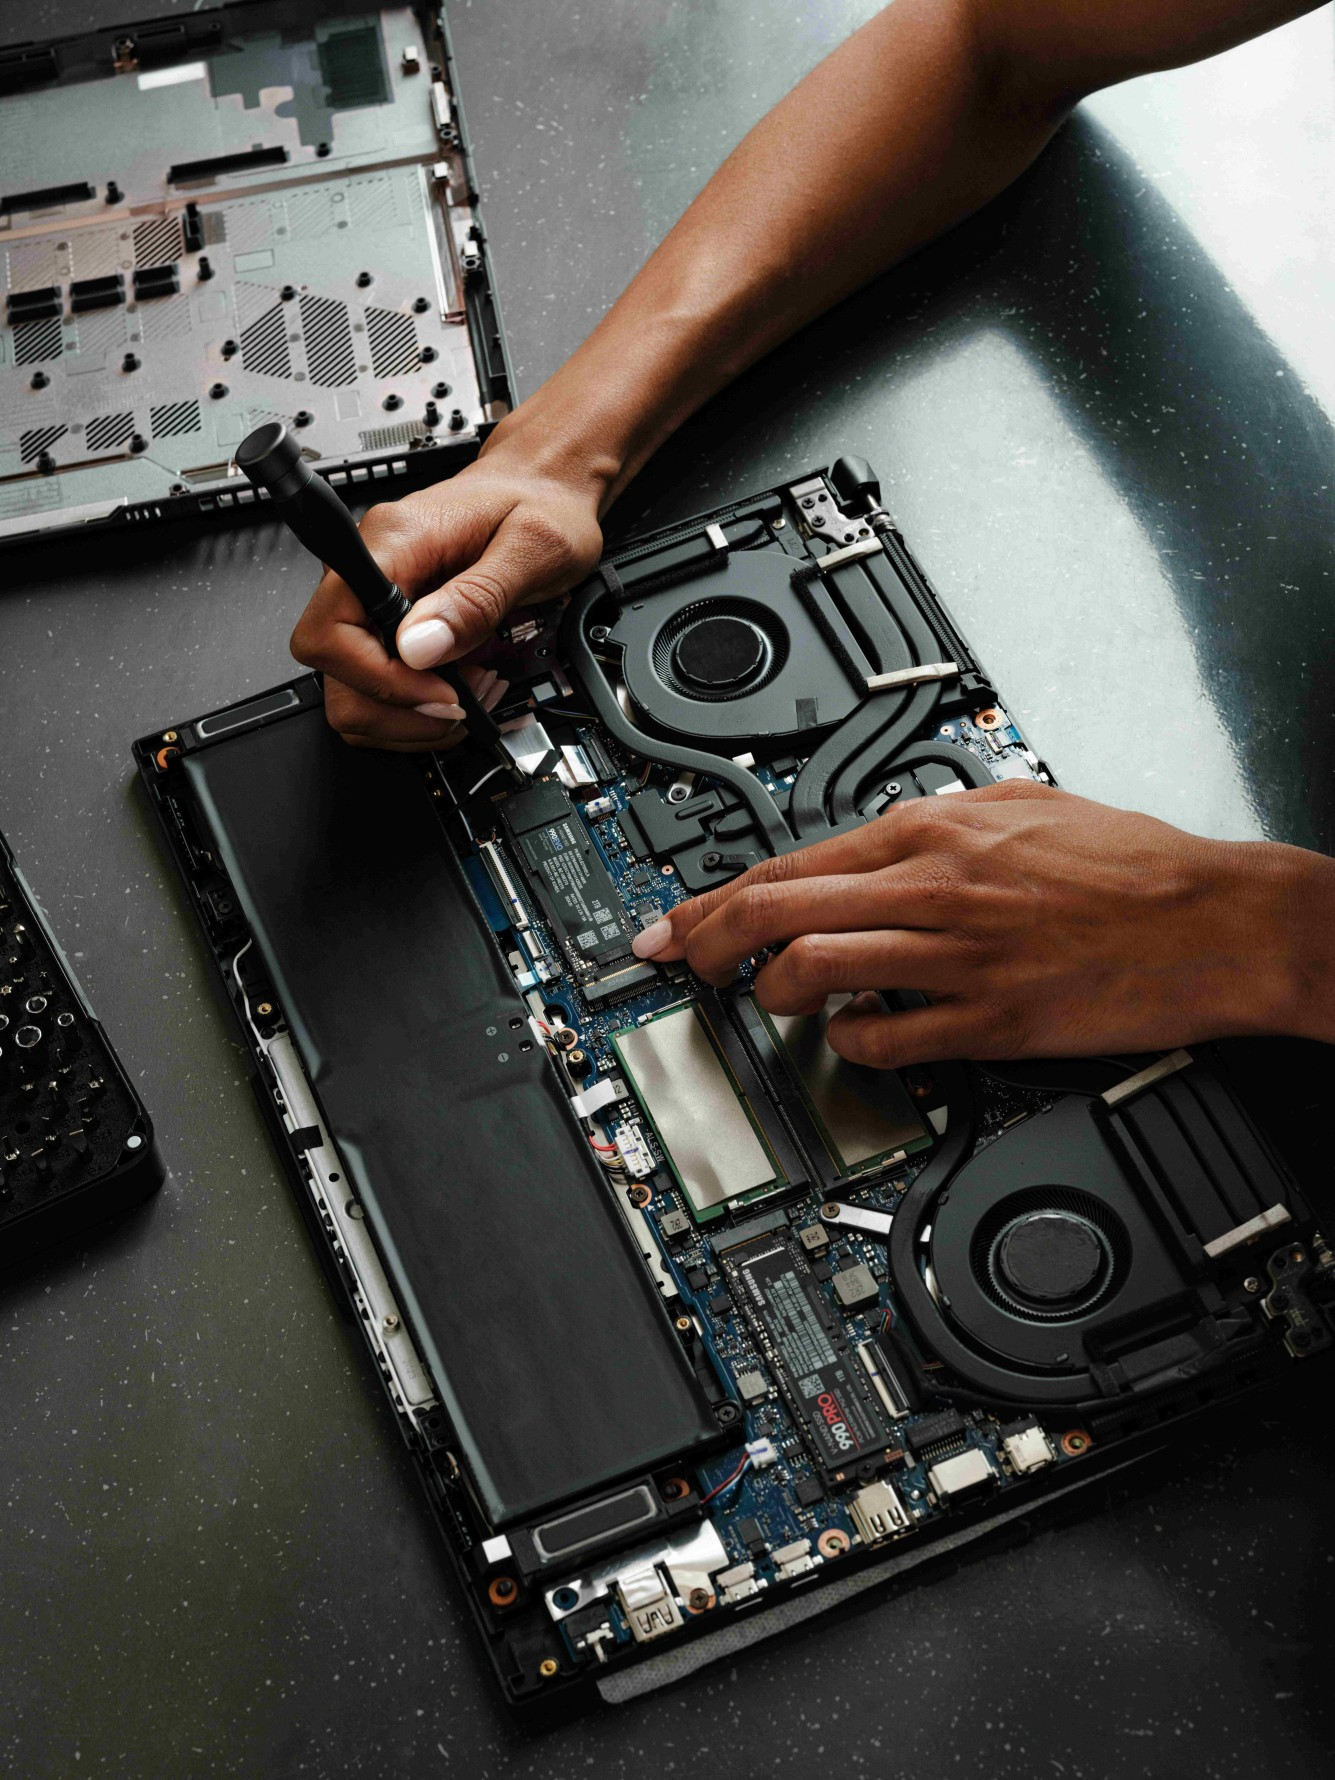
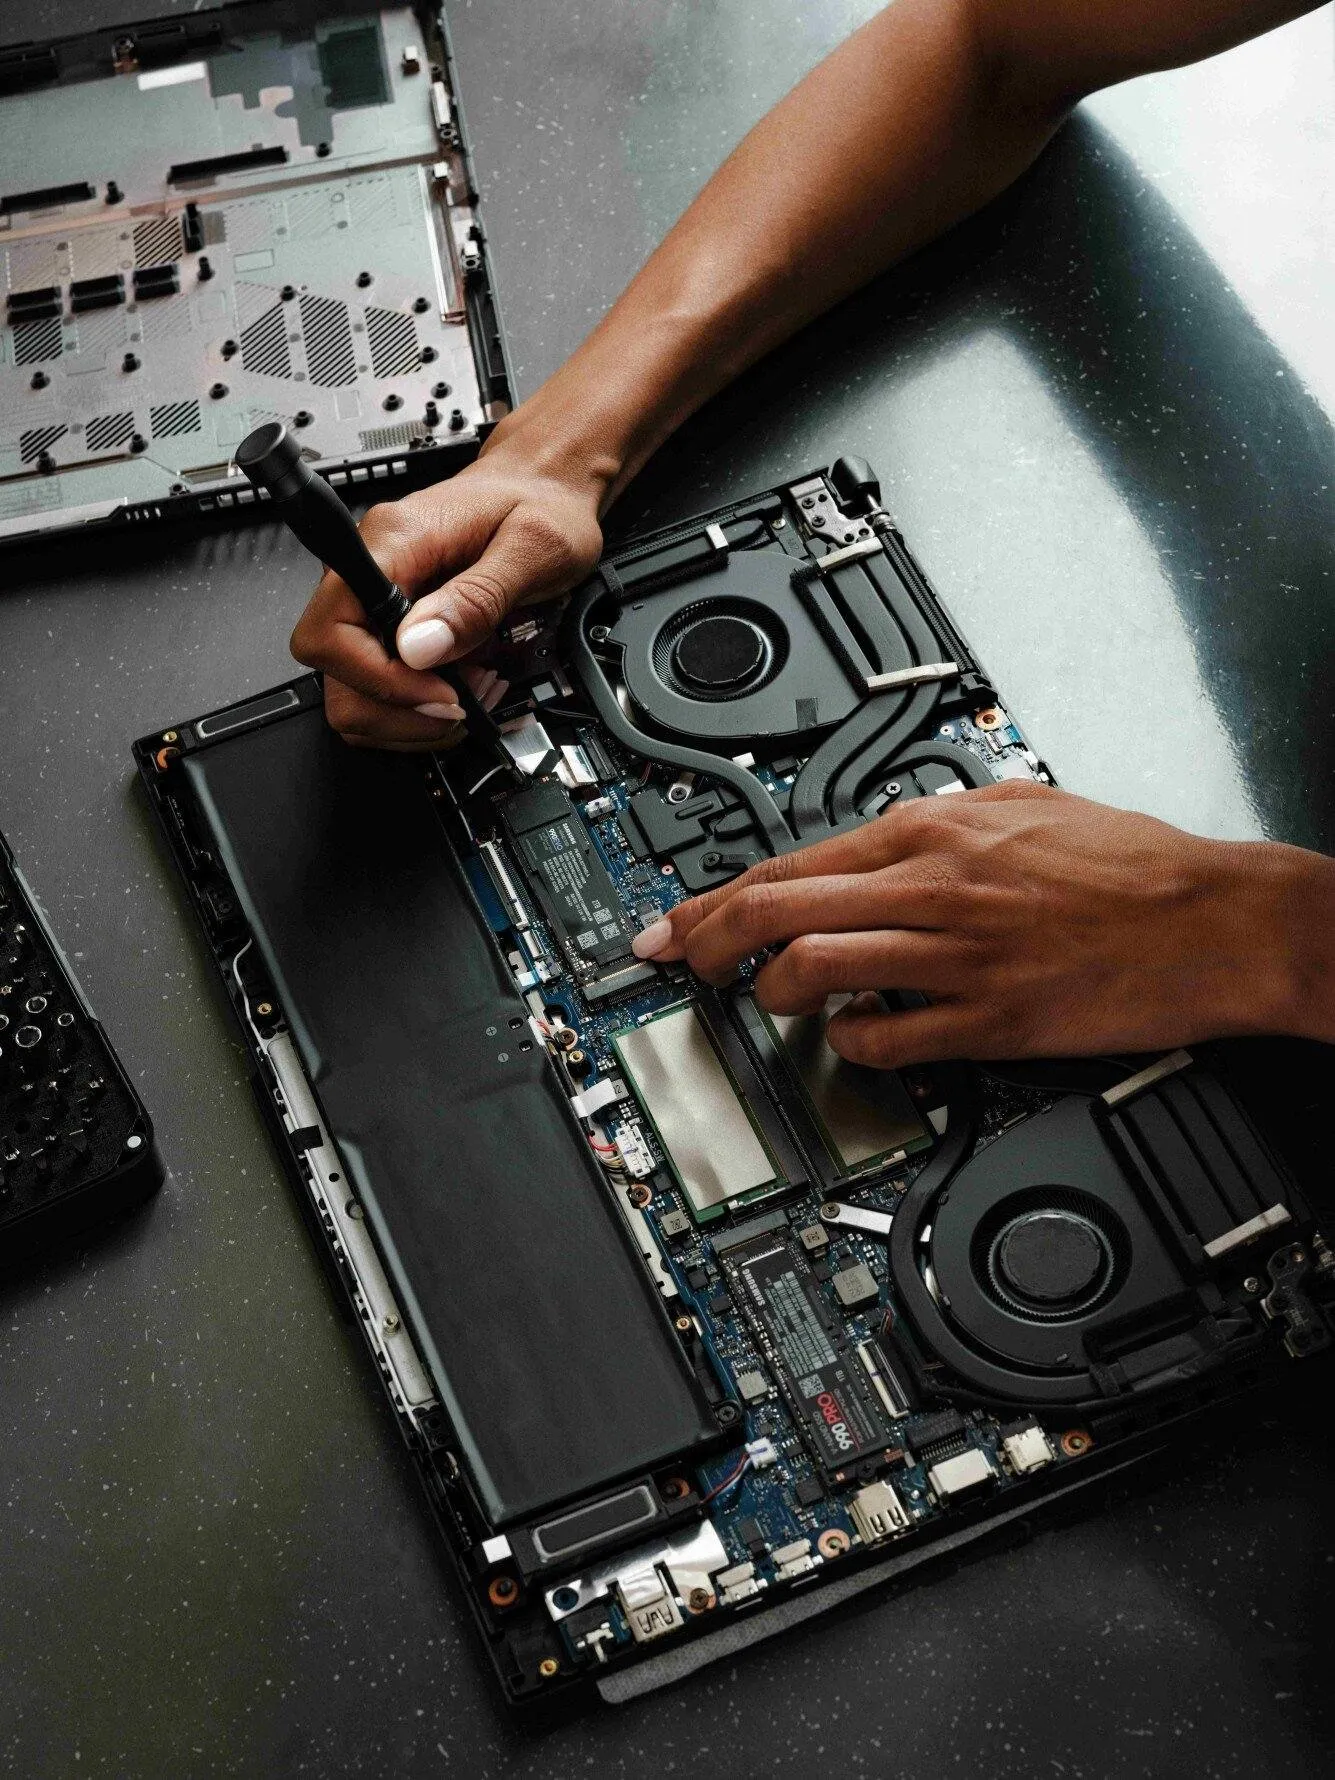
Image compression factor increased.

diff --git a/brandWork/src/components/sections/Testimonials.jsx b/brandWork/src/components/sections/Testimonials.jsx
@@ -75,7 +75,7 @@ function Testimonials() {
                 <div className="flex items-center gap-4 mb-4">
                   <img
                     src={testimonials[index].img}
-                    srcSet={`${testimonials[index].img}?w=96&q=65 96w, ${testimonials[index].img}?w=192&q=75 192w`}
+                    srcSet={`${testimonials[index].img}?w=96&q=50 96w, ${testimonials[index].img}?w=192&q=55 192w`}
                     sizes="(max-width: 640px) 96px, 192px"
                     alt={testimonials[index].author}
                     width="96"
@@ -139,7 +139,7 @@ function Testimonials() {
           transform transition-transform duration-500 hover:scale-[1.03]">
             <img
               src={testimonials[index].img}
-              srcSet={`${testimonials[index].img}?w=640&q=60 640w, ${testimonials[index].img}?w=1024&q=65 1024w`}
+              srcSet={`${testimonials[index].img}?w=640&q=45 640w, ${testimonials[index].img}?w=1024&q=50 1024w`}
               sizes="(max-width: 640px) 640px, (max-width: 1023px) 1024px, 100vw"
               alt={`Client testimonial image ${index + 1}`}
               width="400"

diff --git a/brandWork/src/components/sections/Hero.jsx b/brandWork/src/components/sections/Hero.jsx
@@ -9,7 +9,7 @@ function Hero() {
       className="relative flex flex-col items-center justify-center text-center min-h-screen w-full bg-cover bg-center bg-no-repeat transition-colors duration-500 overflow-hidden bg-linear-to-br from-gray-900 via-gray-800 to-black"
     ><img 
       src={heroBg}
-      srcSet={`${heroBg}?w=640&q=60 640w, ${heroBg}?w=1024&q=65 1024w, ${heroBg}?w=1440&q=75 1440w`}
+      srcSet={`${heroBg}?w=640&q=45 640w, ${heroBg}?w=1024&q=50 1024w, ${heroBg}?w=1440&q=55 1440w`}
       sizes="(max-width: 640px) 640px, (max-width: 1023px) 1024px, 1440px"
       alt="Image of a Technician opening a laptop backcase."
       width="1920"

diff --git a/brandWork/src/components/sections/allProducts.jsx b/brandWork/src/components/sections/allProducts.jsx
@@ -60,7 +60,7 @@ function AllProducts() {
             <div className="w-full aspect-square flex items-center justify-center bg-[#1A1A1A]/60">
               <img
                 src={product.img}
-                srcSet={`${product.img}?w=300&q=60 300w, ${product.img}?w=500&q=65 500w`}
+                srcSet={`${product.img}?w=300&q=45 300w, ${product.img}?w=500&q=50 500w`}
                 sizes="(max-width: 640px) 300px, (max-width: 1023px) 500px, 600px"
                 alt={product.name}
                 width="400"

diff --git a/brandWork/src/components/sections/Section2.jsx b/brandWork/src/components/sections/Section2.jsx
@@ -52,7 +52,7 @@ function AboutSection() {
             group transform transition-transform duration-500 hover:scale-[1.02]">
             <img
               src={sectionImg}
-              srcSet={`${sectionImg}?w=640&q=60 640w, ${sectionImg}?w=1024&q=65 1024w`}
+              srcSet={`${sectionImg}?w=640&q=45 640w, ${sectionImg}?w=1024&q=50 1024w`}
               sizes="(max-width: 640px) 640px, (max-width: 1023px) 1024px, 100vw"
               alt="An open Samsung s10 phone."
               width="400"

diff --git a/brandWork/src/components/sections/Section1.jsx b/brandWork/src/components/sections/Section1.jsx
@@ -67,7 +67,7 @@ function Section1() {
               >
                 <img
                   src={item.img}
-                  srcSet={`${item.img}?w=400&q=60 400w, ${item.img}?w=640&q=65 640w`}
+                  srcSet={`${item.img}?w=400&q=45 400w, ${item.img}?w=640&q=50 640w`}
                   sizes="(max-width: 640px) 400px, (max-width: 1023px) 640px, 800px"
                   alt={item.title}
                   width="250"

diff --git a/brandWork/src/components/sections/CTA.jsx b/brandWork/src/components/sections/CTA.jsx
@@ -28,7 +28,7 @@ function CTA() {
       >
         <img
           src={logo}
-          srcSet={`${logo}?w=400&q=60 400w, ${logo}?w=640&q=65 640w, ${logo}?w=1024&q=75 1024w`}
+          srcSet={`${logo}?w=400&q=45 400w, ${logo}?w=640&q=50 640w, ${logo}?w=1024&q=55 1024w`}
           sizes="(max-width: 640px) 400px, (max-width: 1023px) 640px, 1024px"
           alt="Kimuyu TechWorks logo"
           width="800"
